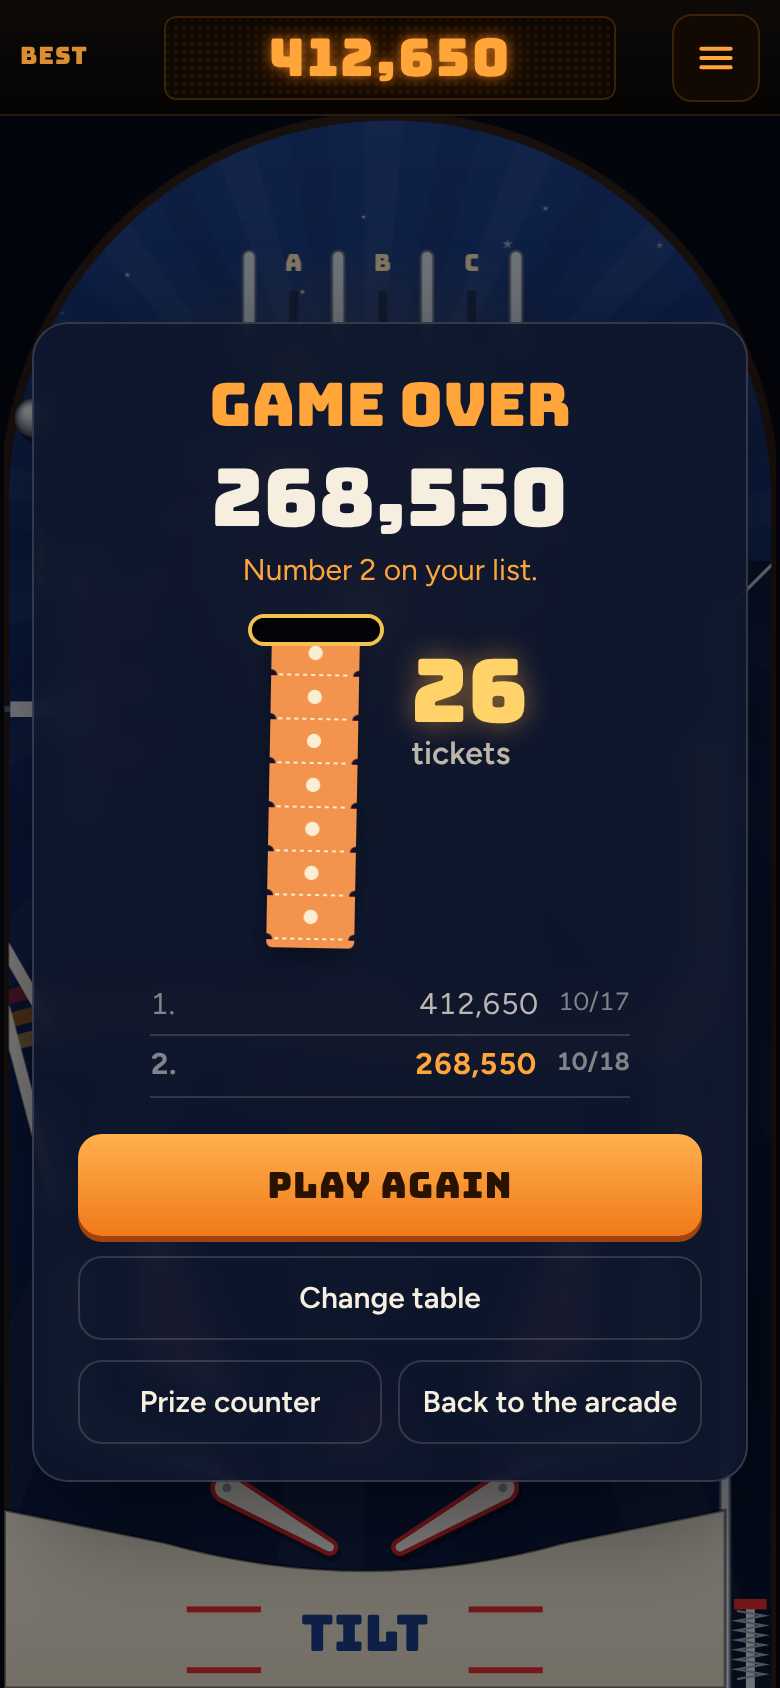
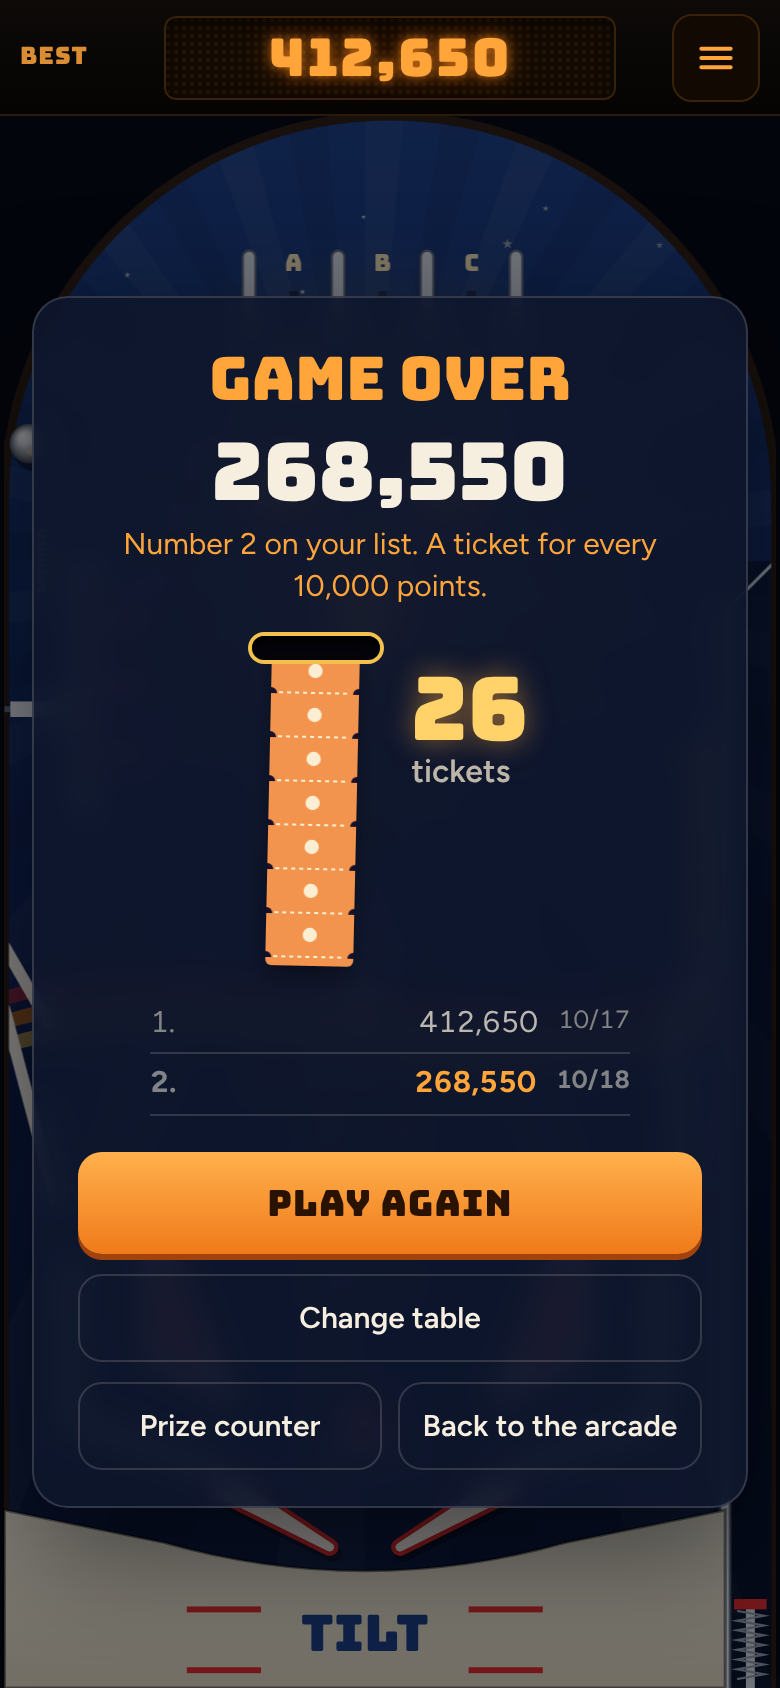
Redraw Tilt's and the prize counter's pictures
The README's picture of Tilt's end card now says what the table pays
after the place on the list, with its buttons 2 px taller, and the
counter's picture has the close button at 44 px. The other pictures
came out different by animation timing alone and are left as they were.

Claude-Session: https://claude.ai/code/session_01RkvUFhzoaPZyofz3pSrJ5i

diff --git a/README.md b/README.md
@@ -9,7 +9,7 @@
   &nbsp;
   <img src="docs/phone-roll-up.png" alt="Roll Up pushed in on the board as a ball drops into the 50 cup: chrome rings on a blue board with lit numbers 20, 30, 40 and 50, 100 cups in both top corners, and +50 rising over the cup" width="250">
   &nbsp;
-  <img src="docs/phone-tilt.png" alt="The end of a game of Tilt: 268,550 points, number 2 on the list, and a strip of 26 orange tickets hanging out of a slot" width="250">
+  <img src="docs/phone-tilt.png" alt="The end of a game of Tilt: 268,550 points, number 2 on the list at a ticket for every 10,000 points, and a strip of 26 orange tickets hanging out of a slot" width="250">
 </p>
 <p align="center">
   <img src="docs/phone-clutch.png" alt="Clutch, a candy-pink claw machine: CLUTCH in neon on a bulb-lit sign, the claw coming up out of a heap of plush frogs, ghosts, aliens, penguins and a chick with a penguin in its grip, the prize chute behind a clear wall on the left, and a big pink HOLD button under the cabinet" width="250">
